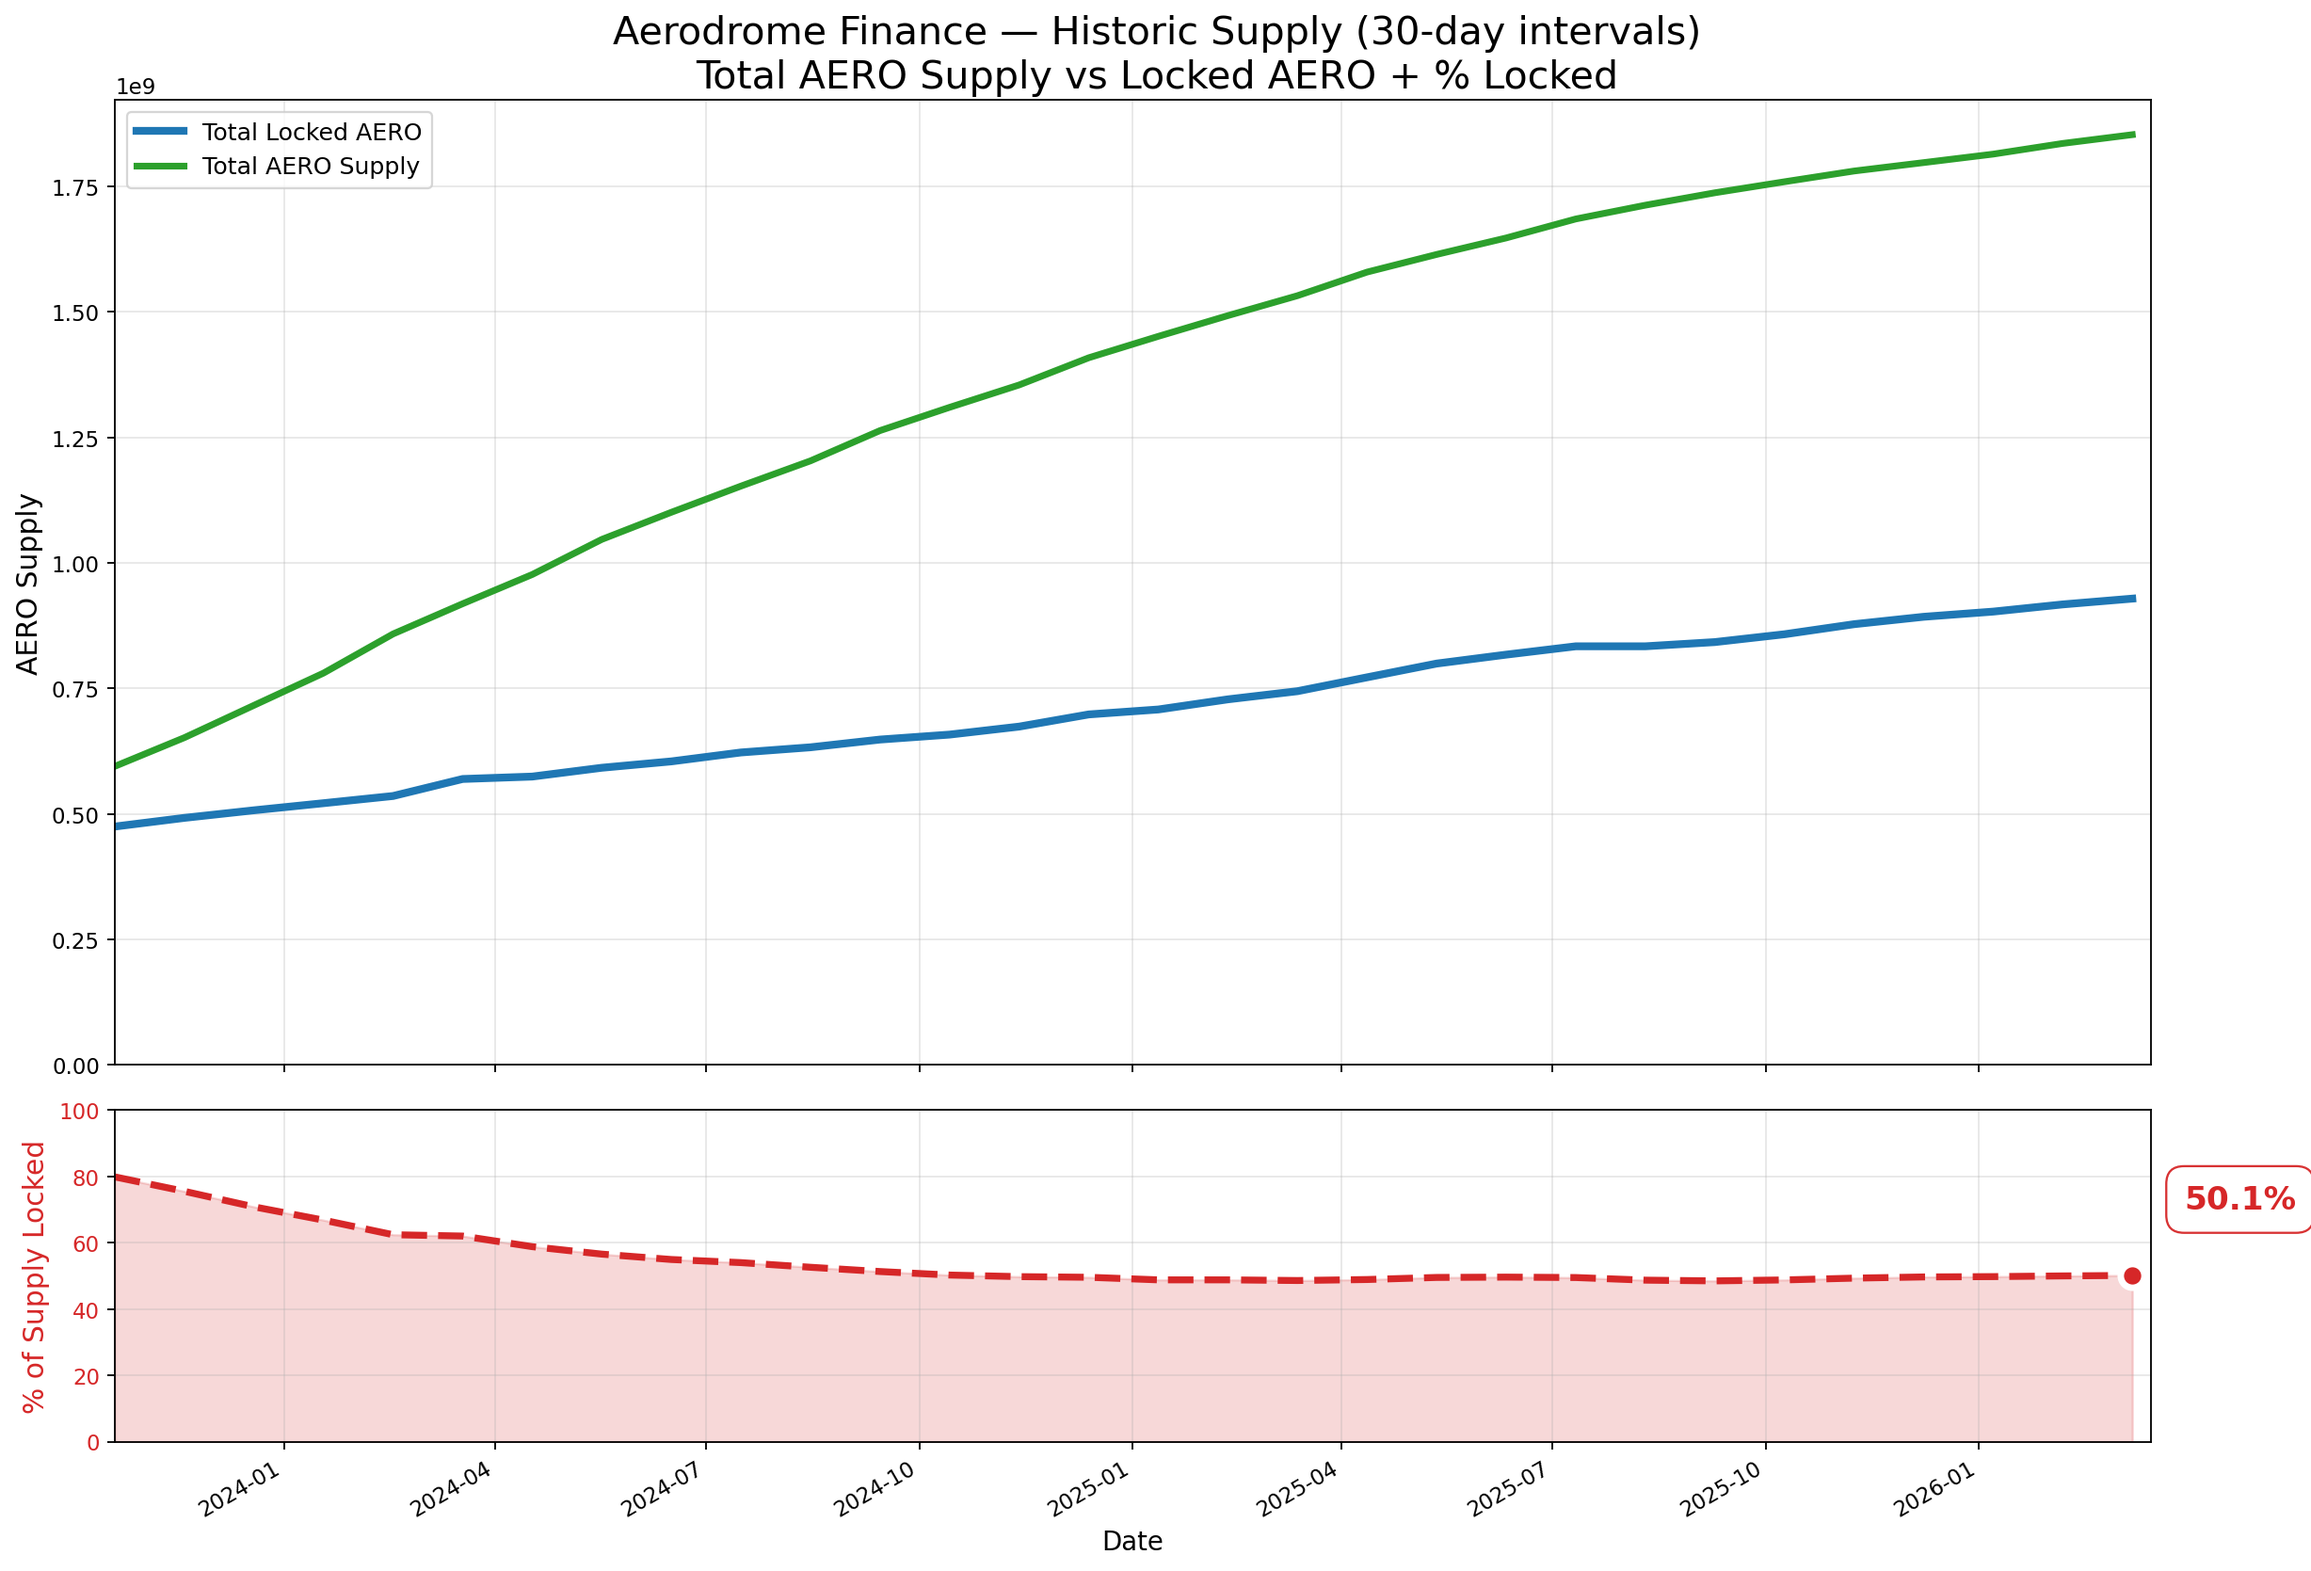
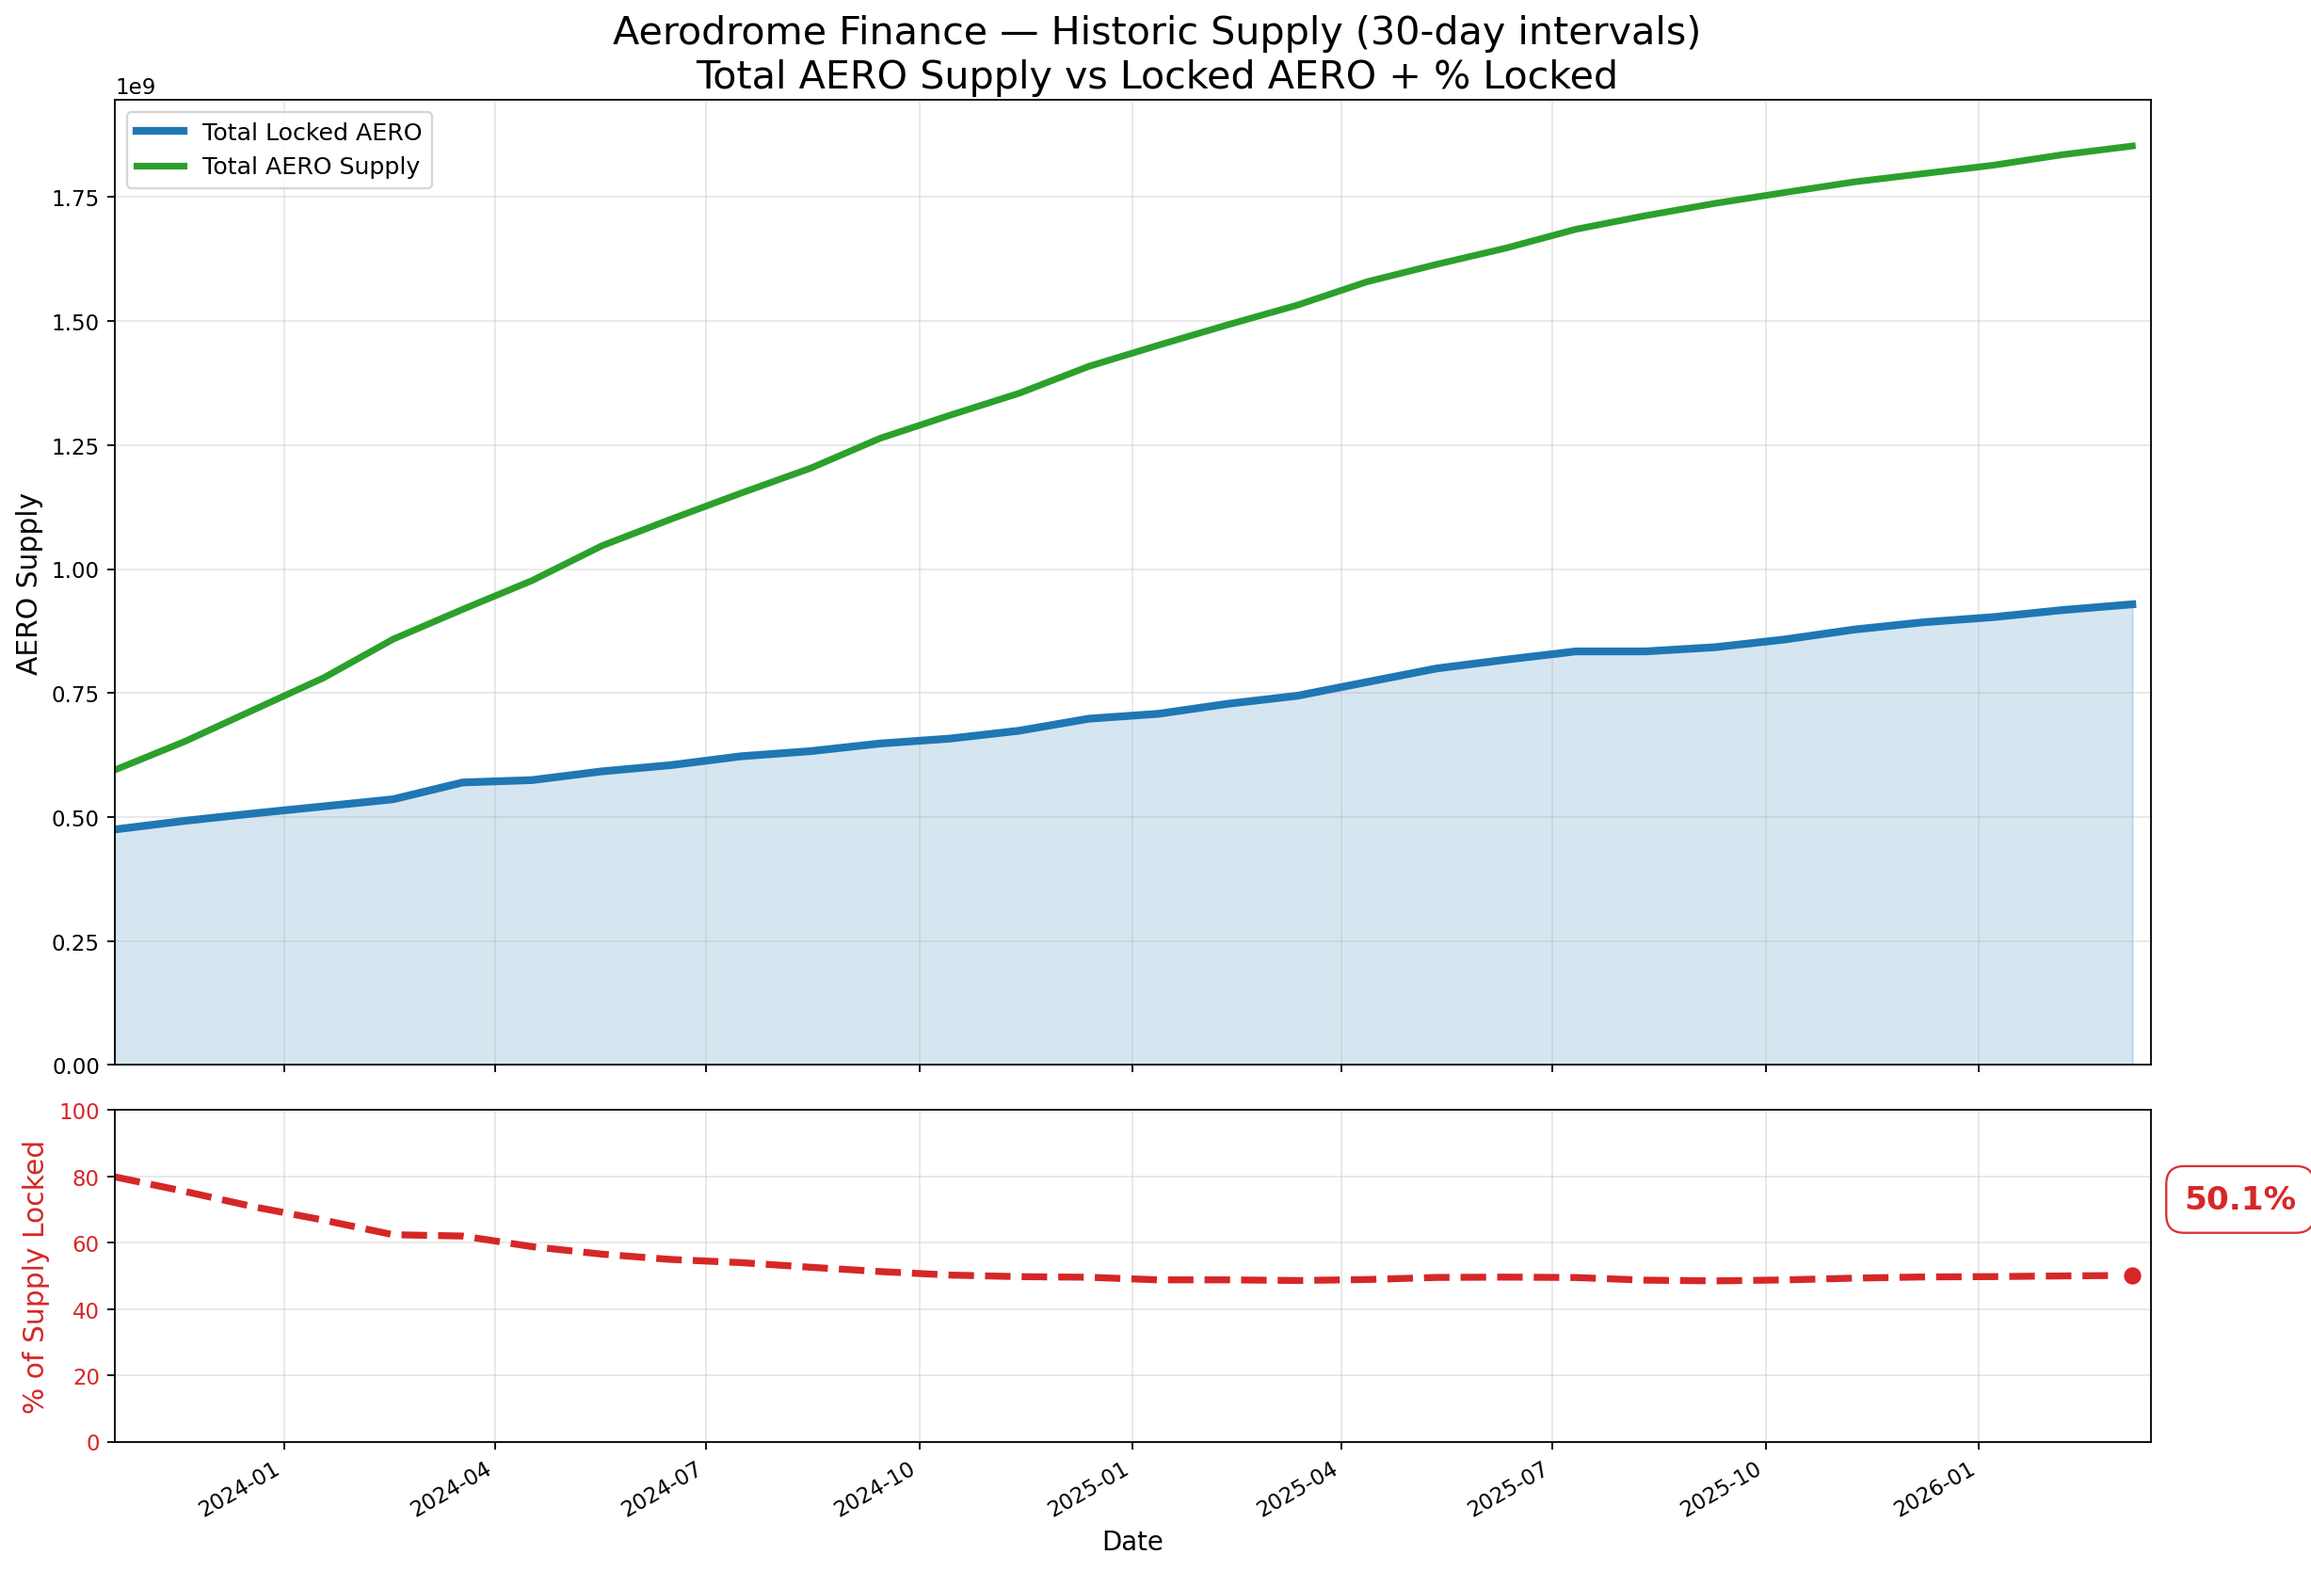
shades for upper part, none for lower

diff --git a/src/aero_pools_analysis_and_base_wallet/veAero_supply_chart.py b/src/aero_pools_analysis_and_base_wallet/veAero_supply_chart.py
@@ -7,7 +7,7 @@ import os
 
 
 class VeAeroSupplyAnalyzer:
-    """Updated flow: Granularity first → check cache → API key only when downloading."""
+    """Updated: locked area shaded on top panel only. Bottom % panel now clean line only (no fill)."""
 
     AERO_ADDRESS = "0x940181a94A35A4569E4529A3CDfB74e38FD98631"
     VE_ADDRESS = "0xeBf418Fe2512e7E6bd9b87a8F0f294aCDC67e6B4"
@@ -154,22 +154,26 @@ class VeAeroSupplyAnalyzer:
         color_total = '#2ca02c'
         color_percent = '#d62728'
 
-        # Top chart - Supply
+        # Top chart - Supply with locked area shaded
         ax1.set_ylabel('AERO Supply', fontsize=13)
         ax1.plot(self.df['date'], self.df['total_locked_aero'],
                  color=color_locked, linewidth=3.6, label='Total Locked AERO')
         ax1.plot(self.df['date'], self.df['total_aero_supply'],
                  color=color_total, linewidth=3.1, label='Total AERO Supply')
+
+        # Shade only the locked area (top panel)
+        ax1.fill_between(self.df['date'], 0, self.df['total_locked_aero'],
+                         color=color_locked, alpha=0.18)
+
         ax1.set_ylim(bottom=0)
         ax1.grid(True, alpha=0.3)
         ax1.legend(loc='upper left', fontsize=11)
 
-        # Bottom chart - % Locked with current highlight
+        # Bottom chart - % Locked (clean - no shading)
         ax2.set_ylabel('% of Supply Locked', color=color_percent, fontsize=13)
         ax2.plot(self.df['date'], self.df['percent_locked'],
                  color=color_percent, linewidth=3.2, linestyle='--')
-        ax2.fill_between(self.df['date'], self.df['percent_locked'],
-                        color=color_percent, alpha=0.18)
+        # fill_between removed as requested
 
         # Highlight current percentage
         last_date = self.df['date'].iloc[-1]
@@ -210,7 +214,7 @@ class VeAeroSupplyAnalyzer:
         plt.close()
         
         print(f"📊 Dual-panel chart saved → {filename_base}.png "
-              f"(current % highlighted on bottom chart)")
+              f"(top locked shaded + clean % line + zero baseline)")
 
     def print_stats(self):
         latest = self.df.iloc[-1]
@@ -230,10 +234,8 @@ class VeAeroSupplyAnalyzer:
         print("🔑 Aerodrome veAero Historic Supply Chart")
         print("========================================\n")
         
-        # 1. Granularity FIRST
         self.prompt_granularity()
         
-        # 2. Check for existing data
         filename = f"veaero_historic_supply_{self.days}day.csv"
         
         if os.path.exists(filename):
@@ -252,7 +254,6 @@ class VeAeroSupplyAnalyzer:
                     print(f"⚠ Could not load CSV: {e}")
                     print("Falling back to fresh download...\n")
         
-        # 3. Need fresh data → ask for API key RIGHT BEFORE download
         self.prompt_alchemy_key()
         self.setup_web3()
         self.fetch_data()
